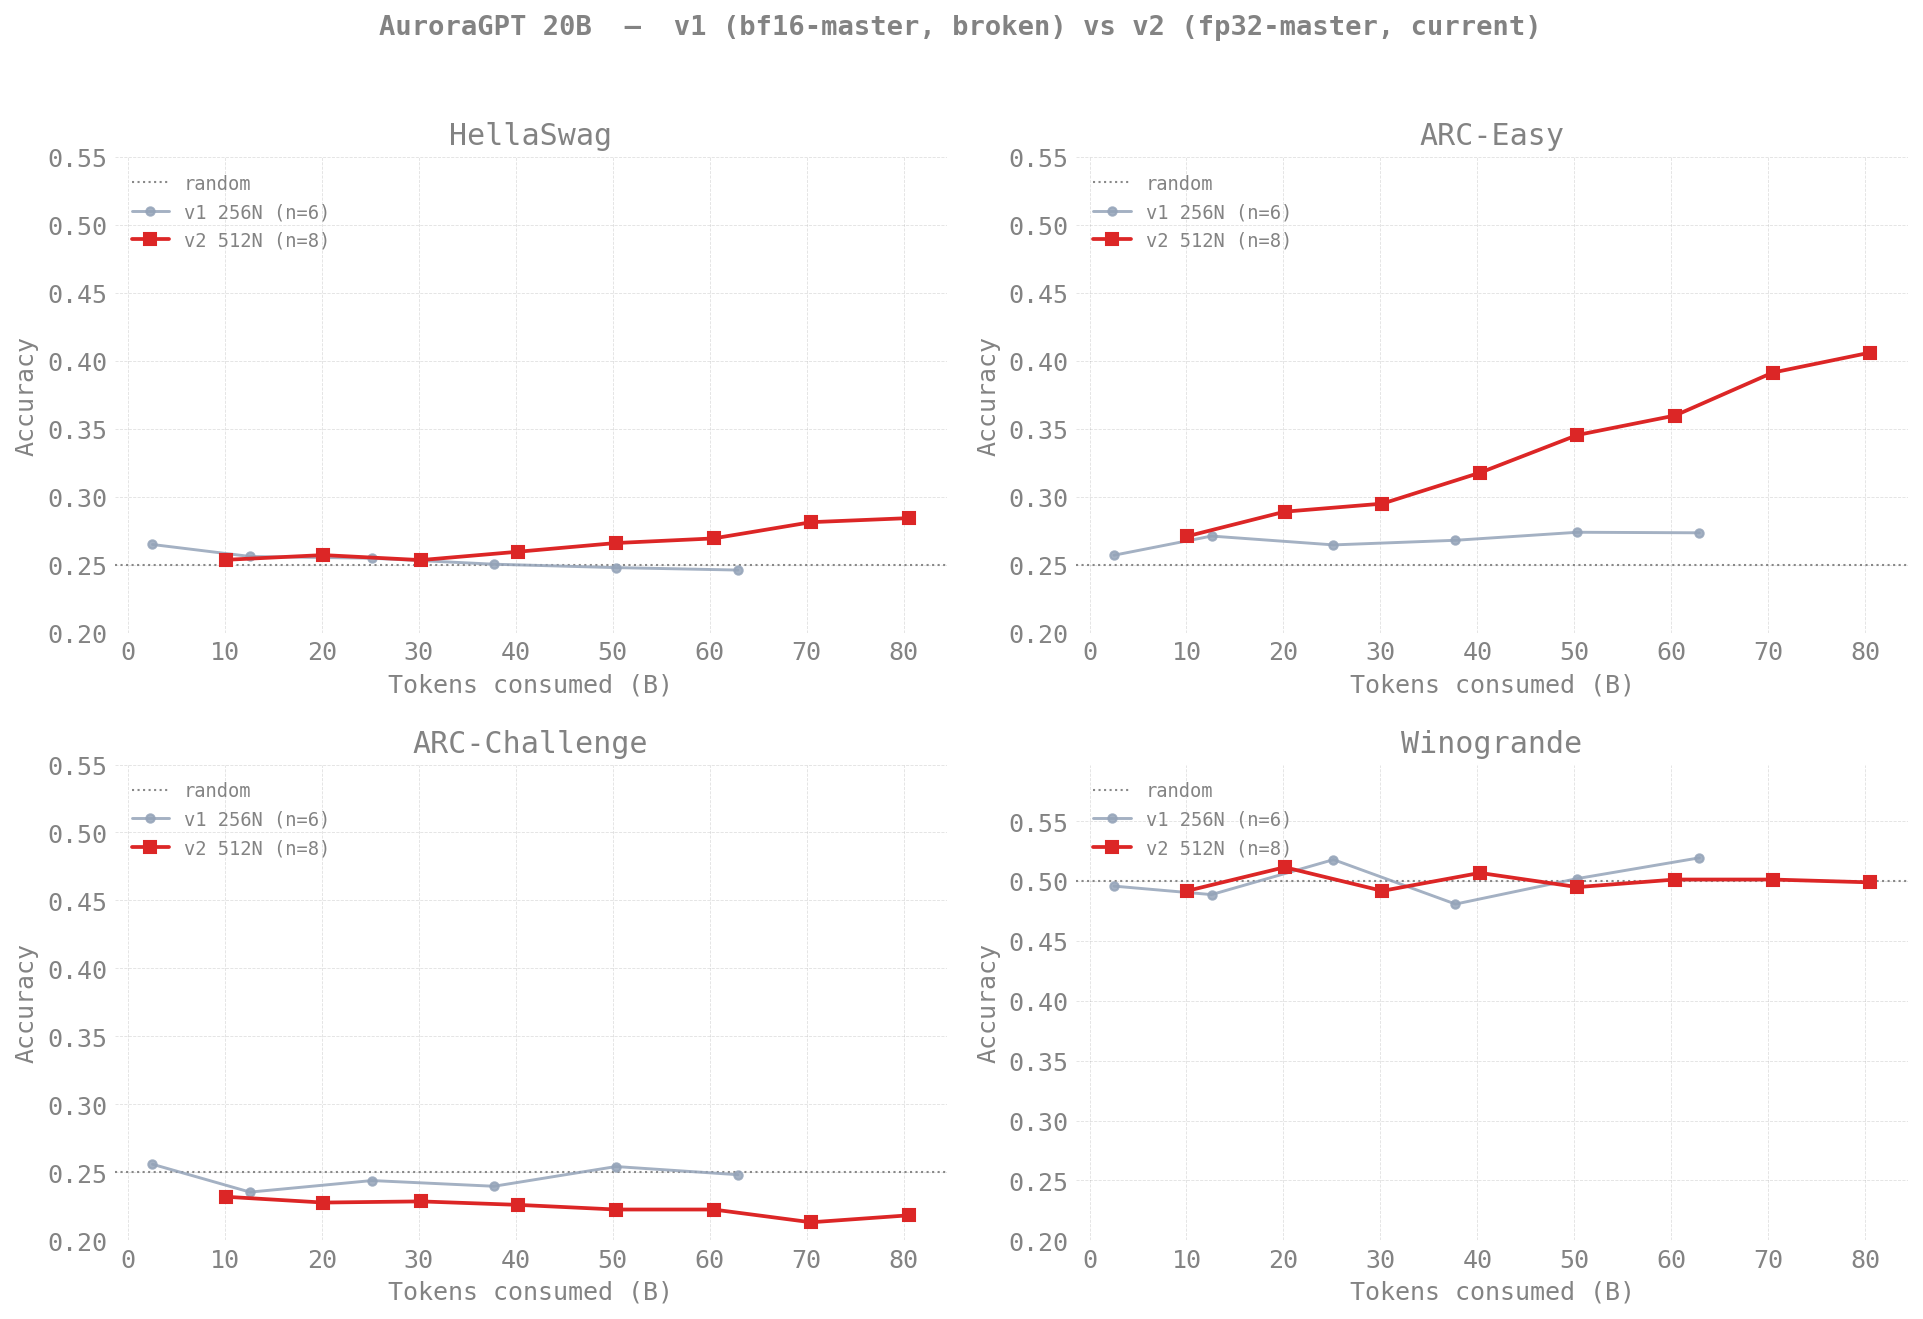
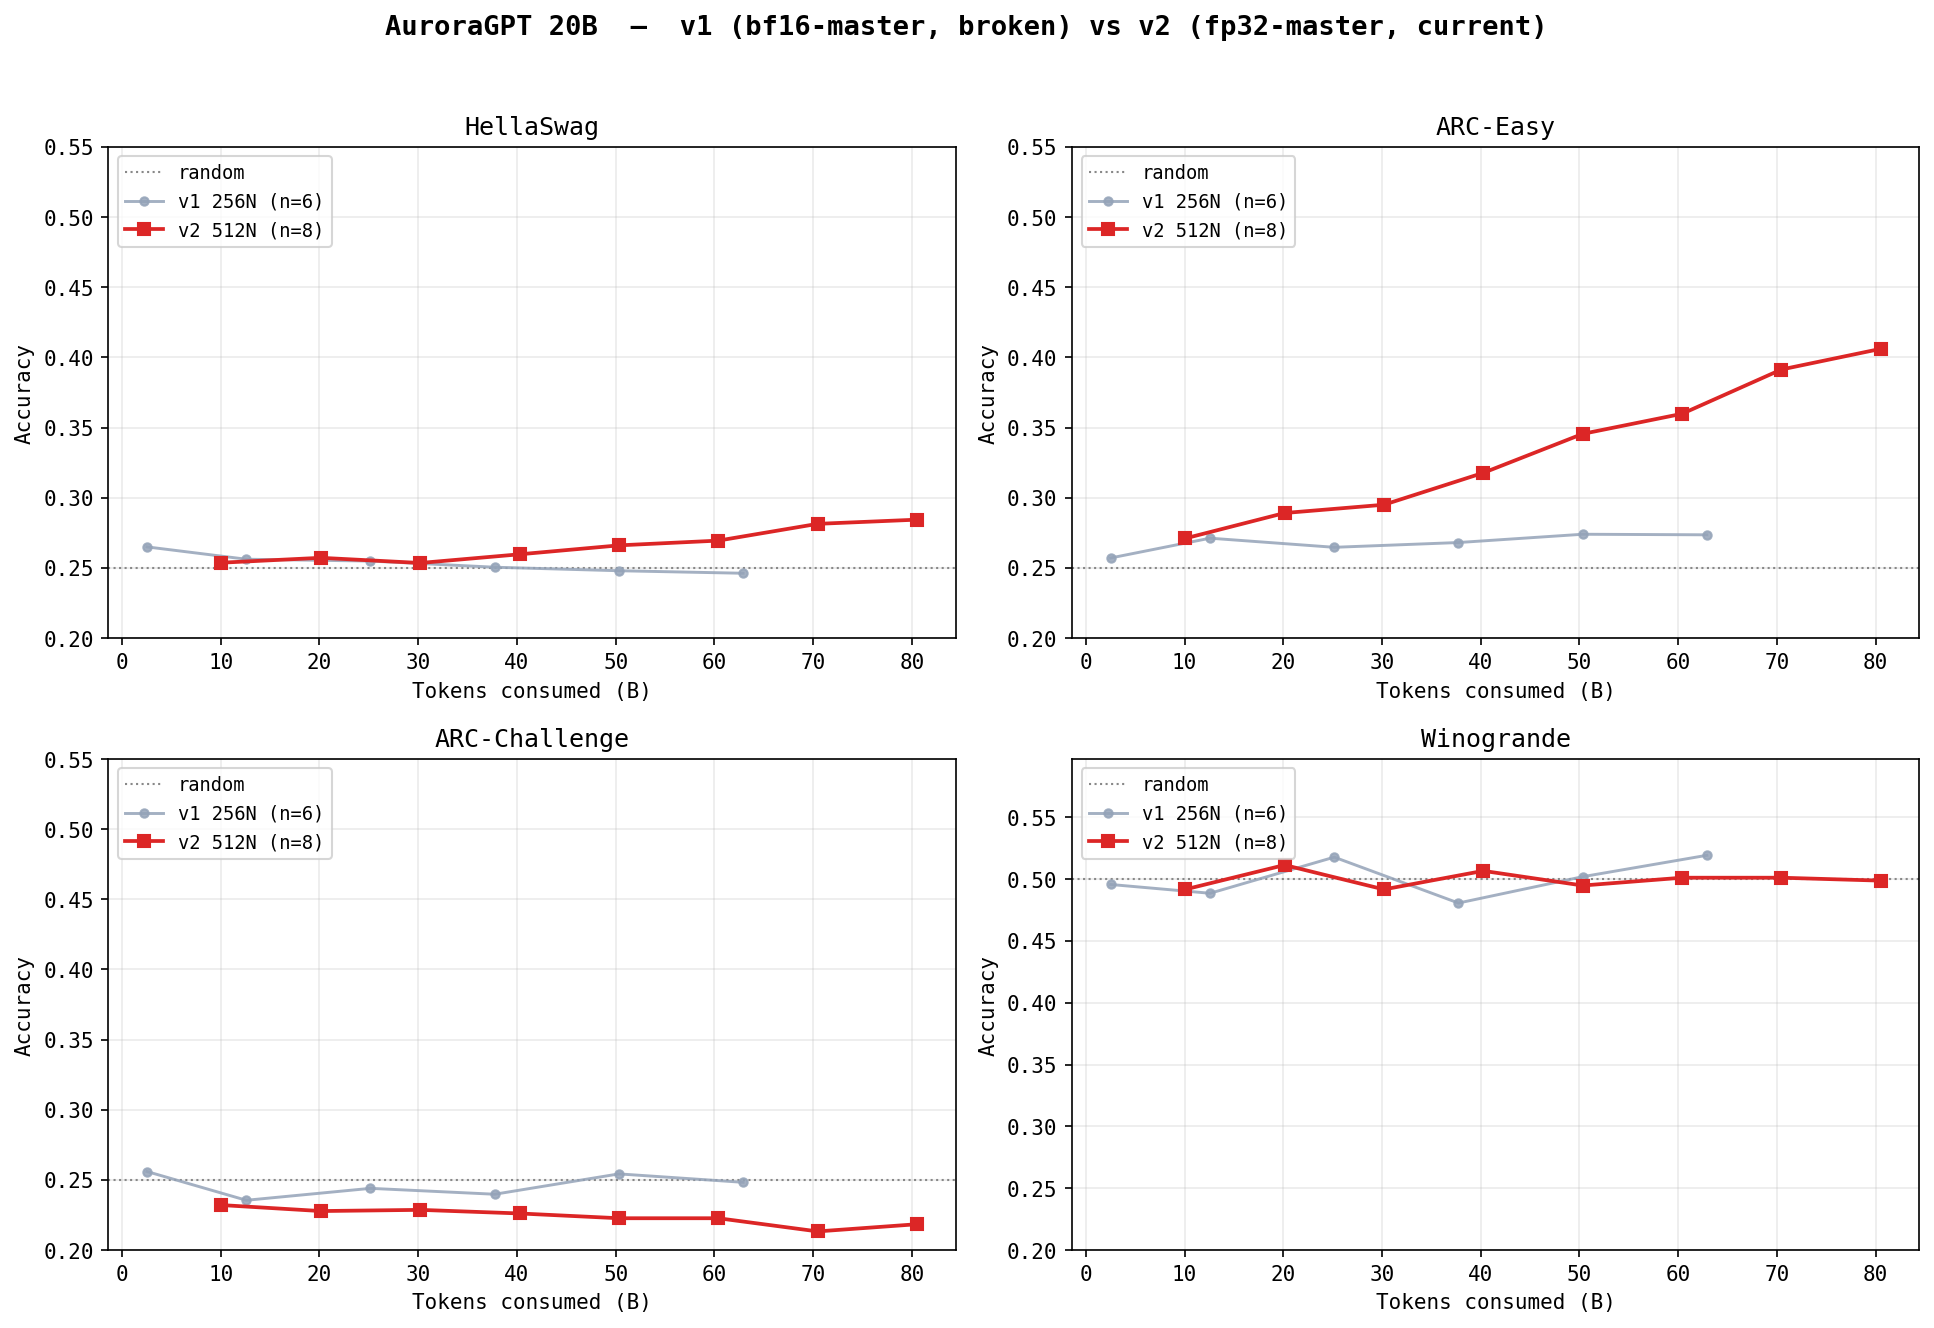
docs(ezpz/evals): refresh 2B + 20B eval tables + regenerate plots
2B 512N: ran lm-eval on all v2 ckpts at every 1000 steps from 1K → 13K
via 8503087 (capacity, 1N, ~1h44m). Added a "v2 512N — full sweep
(2026-05-22 refresh)" section with three sub-tables:

- Raw accuracy across all 4 tasks
- Length-normalized `acc_norm` where applicable
- Δ vs v1 ceiling: +33.3pp ARC-Easy, +13.9pp HellaSwag at 1.31T tokens

v2 ARC-Easy lifts cleanly above the 25% random baseline within the
first 2K steps and reaches 0.6115 at step-13000. HellaSwag breaks out
similarly, hitting 0.4926 (acc_norm) at step-13000. The bf16-master
fix is decisively validated.

Also added a "step-13300 unavailable" note (async ckpt save killed
mid-write — same issue as the 20B step-900 case, tracked as Known
Issue #7 in production index).

20B: clarified that the existing 100-800 step table is `acc_norm`,
added a parallel `acc` table that shows ARC-Easy lifting to 0.4444 by
step 800 (+17.0pp above v1's flat 0.27 ceiling — the previous +19.8pp
ARC-Easy headline was on `acc_norm` so this complements it). Noted
that the in-progress 8503089 will add the 20B 256N comparator.

Regenerated both v1_vs_v2.png figures using the updated JSON data via
the existing plot_v1_vs_v2.py scripts. Note: those scripts use the
walrus operator so must be run via `.venv/bin/python3`, not the system
python3 (3.6).

diff --git a/torchtitan/experiments/ezpz/docs/evals/agpt/2b/README.md b/torchtitan/experiments/ezpz/docs/evals/agpt/2b/README.md
@@ -2,7 +2,7 @@
 
 > **Living document** — updated as new eval results come in.
 >
-> Last updated: 2026-05-03
+> Last updated: 2026-05-22
 >
 > **Training curves:** see [`docs/production/agpt/2b/`](../../../production/agpt/2b/README.md)
 > for loss / throughput / MFU dashboards across all 2B trajectories
@@ -99,6 +99,89 @@ LR=3.22e-5 (vs canonical LR=2.28e-5).
 - Will be evaluated at step 1000/2000 with the same lm-eval pipeline,
   then plotted on the same v1-vs-v2 figure as a third v2 line
   (LR=3.22e-5).
+
+## v2 512N — full sweep (2026-05-22 refresh)
+
+Re-ran lm-eval on all v2 512N checkpoints at every 1000 steps from
+1K → 13K. **Loss is descending cleanly across all four tasks; no
+random-baseline regime remaining anywhere on the curve.**
+
+Tokens at step *N* = `N × 12,288 × 8,192`. (`token_count_str =
+f"{N * 100663296:.0f}"`.)
+
+### Raw accuracy (`acc`)
+
+| Step | Tokens | HellaSwag | ARC-Easy | ARC-Chall | Winogrande |
+|-----:|------:|---------:|---------:|----------:|-----------:|
+|  1,000 |  101B | 0.2642 | 0.3624 | 0.1894 | 0.5099 |
+|  2,000 |  201B | 0.2859 | 0.4613 | 0.1877 | 0.5075 |
+|  3,000 |  302B | 0.3060 | 0.5109 | 0.1980 | 0.5193 |
+|  4,000 |  403B | 0.3264 | 0.5366 | 0.2261 | 0.5257 |
+|  5,000 |  503B | 0.3427 | 0.5231 | 0.2287 | 0.5241 |
+|  6,000 |  604B | 0.3498 | 0.5543 | 0.2372 | 0.5114 |
+|  7,000 |  704B | 0.3599 | 0.5753 | 0.2594 | 0.5312 |
+|  8,000 |  805B | 0.3687 | 0.5850 | 0.2679 | 0.5130 |
+|  9,000 |  906B | 0.3736 | 0.6023 | 0.2765 | 0.5296 |
+| 10,000 | 1.01T | 0.3799 | 0.5981 | 0.2739 | 0.5335 |
+| 11,000 | 1.11T | 0.3835 | 0.6002 | 0.2747 | 0.5304 |
+| 12,000 | 1.21T | 0.3889 | 0.6035 | 0.2637 | 0.5351 |
+| 13,000 | 1.31T | **0.3929** | **0.6115** | **0.2679** | **0.5375** |
+
+### Length-normalized (`acc_norm`, when applicable)
+
+| Step | HellaSwag `acc_norm` | ARC-Easy `acc_norm` | ARC-Chall `acc_norm` |
+|-----:|--------------------:|-------------------:|--------------------:|
+|  1,000 | 0.2636 | 0.3460 | 0.2235 |
+|  2,000 | 0.3039 | 0.4179 | 0.2270 |
+|  3,000 | 0.3477 | 0.4474 | 0.2500 |
+|  4,000 | 0.3786 | 0.4701 | 0.2654 |
+|  5,000 | 0.4061 | 0.4714 | 0.2730 |
+|  6,000 | 0.4261 | 0.4882 | 0.2688 |
+|  7,000 | 0.4388 | 0.5189 | 0.2747 |
+|  8,000 | 0.4499 | 0.5223 | 0.2790 |
+|  9,000 | 0.4594 | 0.5417 | 0.2833 |
+| 10,000 | 0.4702 | 0.5345 | 0.2807 |
+| 11,000 | 0.4791 | 0.5547 | 0.2884 |
+| 12,000 | 0.4853 | 0.5354 | 0.2807 |
+| 13,000 | **0.4926** | **0.5535** | **0.2756** |
+
+### Δ vs v1 ceiling (1.31T tokens / step-13000)
+
+v1 was noise-bound for the entire 18K-step run (table in the
+collapsed v1 section below). At matched 1.31T-token training
+budget:
+
+| Task | v1 best | v2 step-13K | Δ |
+|------|--------:|-----------:|--:|
+| HellaSwag (`acc`) | 0.2536 | **0.3929** | **+13.9pp** |
+| ARC-Easy (`acc`) | 0.2782 | **0.6115** | **+33.3pp** |
+| ARC-Challenge (`acc`) | 0.2560 | **0.2679** | +1.2pp |
+| Winogrande (`acc`) | 0.5107 | **0.5375** | +2.7pp |
+
+ARC-Easy and HellaSwag both **lift cleanly above the random baseline
+within the first 2K-3K steps** and continue to rise monotonically.
+The bf16-master fix is decisively validated: same exact training
+config, +13-33pp on the easier tasks, dramatic separation from v1's
+noise band.
+
+ARC-Challenge and Winogrande are slower to lift — both have higher
+random baselines (Winogrande's is 50%) and need more capacity than
+2B can give. At 4.67T-token target completion (~step 46K) those two
+will probably start moving but small models cap out short of human
+performance on these.
+
+### Per-checkpoint missing data
+
+- **step-13300** ckpt dir is empty on disk (async save was killed
+  mid-write by bad-node crash on 2026-05-13). Latest *usable* ckpt
+  in the chain is step-13200. See production index "Known Issue #7."
+
+### Re-render plot
+
+```bash
+python3 torchtitan/experiments/ezpz/docs/evals/agpt/2b/plot_v1_vs_v2.py
+# writes figures/v1_vs_v2.png with the new data points
+```
 
 <details>
 <summary><strong>v1 detailed results (bf16-tainted, kept for record) — click to expand</strong></summary>

diff --git a/torchtitan/experiments/ezpz/docs/evals/agpt/20b/README.md b/torchtitan/experiments/ezpz/docs/evals/agpt/20b/README.md
@@ -2,7 +2,7 @@
 
 > **Living document** — updated as new eval results come in.
 >
-> Last updated: 2026-05-05
+> Last updated: 2026-05-22
 >
 > **Training curves:** see [`docs/production/agpt/20b/`](../../../production/agpt/20b/README.md)
 > for loss / throughput / MFU dashboards (v1 256N + v2 512N).
@@ -66,7 +66,70 @@ python3 torchtitan/experiments/ezpz/docs/evals/agpt/20b/plot_v1_vs_v2.py
 | **v2 512N** | **700** | ** 70.5** | **0.2814** | **0.3914** | **0.2133** | **0.5012** |
 | **v2 512N** | **800** | ** 80.5** | **0.2844** | **0.4061** | **0.2184** | **0.4988** |
 
-All 8 v2 ckpts (steps 100-800) now evaluated. Steps 700/800 ran on 8469257 (capacity, 3h walltime) after 8467370 hit walltime mid-step-700 yesterday.
+> **Note on metric**: the table above reports `acc_norm` for HellaSwag
+> and ARC tasks (length-normalized) and `acc` for Winogrande (which
+> doesn't have `acc_norm`). Numbers in the parallel `acc` (raw) view
+> are typically 1-4pp higher for ARC-Easy and 1-2pp lower for HellaSwag
+> at this checkpoint range. The raw-`acc` table is below.
+
+### v2 512N — raw accuracy view (added 2026-05-22)
+
+Same 8 ckpts as above, now showing raw `acc,none` instead of
+length-normalized. ARC-Easy in particular lifts much faster on the
+raw metric — by step 800 it's at **0.4444**, +17pp above v1's flat
+0.27 ceiling.
+
+| Step | Tokens | HellaSwag `acc` | ARC-Easy `acc` | ARC-Chall `acc` | Winogrande `acc` |
+|-----:|------:|---------------:|---------------:|----------------:|-----------------:|
+|   100 |  10.1 | 0.2571 | 0.2660 | 0.1954 | 0.4917 |
+|   200 |  20.1 | 0.2557 | 0.2896 | 0.1937 | 0.5114 |
+|   300 |  30.2 | 0.2591 | 0.3043 | 0.1860 | 0.4917 |
+|   400 |  40.3 | 0.2645 | 0.3375 | 0.2022 | 0.5067 |
+|   500 |  50.3 | 0.2662 | 0.3594 | 0.1869 | 0.4949 |
+|   600 |  60.4 | 0.2687 | 0.3931 | 0.1800 | 0.5012 |
+|   700 |  70.5 | 0.2761 | 0.4356 | 0.1732 | 0.5012 |
+|   800 |  80.5 | **0.2767** | **0.4444** | 0.1920 | 0.4988 |
+
+### Δ vs v1 ceiling (matched 50-80B token band)
+
+v1's flat noise band across 100-2500 steps establishes the
+counterfactual: with the bf16 RMSNorm freeze, this model never learns
+beyond random regardless of training tokens. Matched-budget Δs:
+
+| Task | v1 best (any step) | v2 step-800 | Δ |
+|------|--------:|-----------:|--:|
+| HellaSwag (`acc`) | 0.2650 | 0.2767 | +1.2pp |
+| ARC-Easy (`acc`) | 0.2740 | **0.4444** | **+17.0pp** |
+| ARC-Challenge (`acc`) | 0.2560 | 0.1920 | -6.4pp (still in noise) |
+| Winogrande (`acc`) | 0.5193 | 0.4988 | -2.0pp (still in noise) |
+
+The +17pp ARC-Easy ascent is the headline. HellaSwag is also
+breaking out on the length-normalized metric (acc_norm 0.254 → 0.284,
++3pp above v1). The other two tasks need more capacity / more tokens
+than 80B can give.
+
+### Step-900 unavailable
+
+8481645 (failover wrapper, 20B 512N) logged step 1000 on 2026-05-14
+but the async checkpoint save was killed mid-write by a bad-node
+crash. step-900 ckpt dir exists on disk but has no `.metadata` /
+`__*_0.distcp` shards, so the eval pipeline can't load it. Latest
+*persisted* ckpt remains step-800.
+
+See production index "Known Issue #7" for the chronic async-save
+corruption pattern across all recent 20B + 2B runs.
+
+### v2 256N comparator (in-progress)
+
+Job 8503089 (2026-05-22) evaluating the 20B 256N chain (`gbs6144`,
+SophiaG LR=2.28e-5, GBS=6,144) at steps 100/200/300/400. The 256N
+trajectory is interesting because it has half the batch size of the
+512N canonical chain — at matched tokens, 256N should
+*under-train per token* if the 2B large-batch effect generalizes
+(see [`../2b/README.md`](../2b/README.md#v2-256n-vs-v2-512n--same-model-two-batch-sizes)).
+
+Results land in `outputs/evals/agpt-20b-v2-256n/step-{N}/results/`
+once 8503089 finishes (~4h walltime).
 
 <details>
 <summary><strong>v1 detailed results (bf16-tainted, kept for record) — click to expand</strong></summary>
